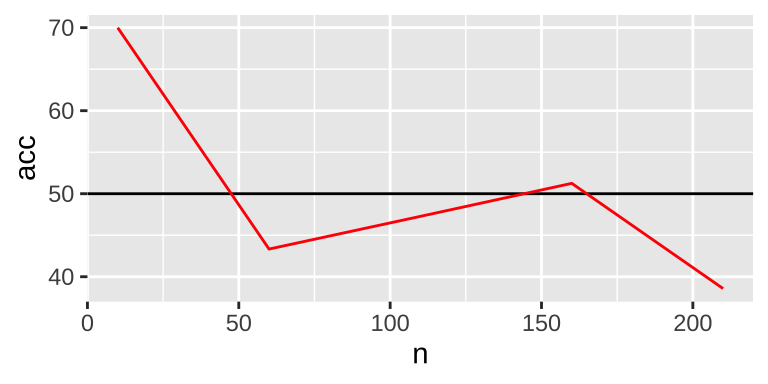
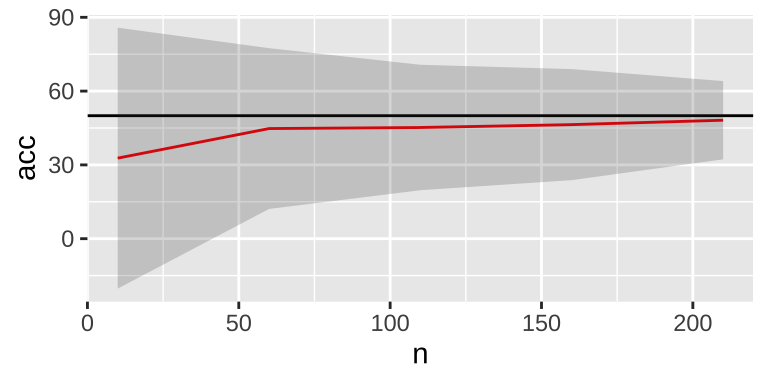
deploy: flashsherlock/rwebsite@00c99f10f3c4987765bbb902573fd79e4ee9eac1

diff --git a/2021/09/27/below-chance-accuracy-in-mvpa/index.html b/2021/09/27/below-chance-accuracy-in-mvpa/index.html
@@ -3,11 +3,12 @@
 library(&quot;dplyr&quot;)
 library(&quot;e1071&quot;)
 # --------training function ---------
-f_train &lt;- function(n, nv = 2,
-                    r=F, c=n) {
+f_train &lt;- function(n, s = 1,
+                    r = F, c = n) {
   # nv: number of features
+  nv &lt;- 2
   # n: number of observations
-  set.seed(1)
+  set.seed(s)
   # generate random data
   rNum &lt;- rnorm(nv * n)
   rNum &lt;- matrix(rNum, n, nv)
@@ -38,13 +39,13 @@ p &lt;- expand.grid(iTest = 1:200,
                  n = seq(10, 210, 50))
 data_test &lt;- p %&gt;%
   group_by(iTest, n) %&gt;%
-  do(data.frame(acc = f_train(.$n)))</code></pre><p><img src=/post/2021-09-27-below-chance-accuracy-in-mvpa_files/figure-html/plot_data-1.png width=384 style=display:block;margin:auto></p><p>As the sample size increases, variability decreases, and the mean accuracy tends to be 50%. However, there is a persistent small down bias on average, which can be eliminated using sampling with replacement.</p><pre class=r><code># with replacement, leave one out
+  do(data.frame(acc = f_train(.$n,.$iTest)))</code></pre><p><img src=/post/2021-09-27-below-chance-accuracy-in-mvpa_files/figure-html/plot_data-1.png width=384 style=display:block;margin:auto></p><p>As the sample size increases, variability decreases, and the mean accuracy tends to be 50%. However, there is a persistent small down bias on average, which can be eliminated using sampling with replacement.</p><pre class=r><code># with replacement, leave one out
 data_test &lt;- p %&gt;%
   group_by(iTest, n) %&gt;%
-  do(data.frame(acc = f_train(.$n,
+  do(data.frame(acc = f_train(.$n,.$iTest,
                               r = T)))</code></pre><p><img src=/post/2021-09-27-below-chance-accuracy-in-mvpa_files/figure-html/unnamed-chunk-5-1.png width=384 style=display:block;margin:auto></p><p>In addition, change to 10-fold cross validation may also decrease the variability.</p><pre class=r><code># with replacement, 10-fold cross validation
 data_test &lt;- p %&gt;%
   group_by(iTest, n) %&gt;%
-  do(data.frame(acc = f_train(.$n,
+  do(data.frame(acc = f_train(.$n,.$iTest,
                               r = F, c=10)))</code></pre><p><img src=/post/2021-09-27-below-chance-accuracy-in-mvpa_files/figure-html/unnamed-chunk-7-1.png width=384 style=display:block;margin:auto></p><p>Some references:</p><ol style=list-style-type:decimal><li><a href=https://doi.org/10.1016/j.neuroimage.2017.12.083>The same analysis approach: Practical protection against the pitfalls of novel neuroimaging analysis methods</a></li><li><a href=https://doi.org/10.1016/j.neuroimage.2018.09.074>How to control for confounds in decoding analyses of neuroimaging data</a></li><li><a href=https://doi.org/10.1002/hbm.23140>Classification Based Hypothesis Testing in Neuroscience: Below-Chance Level Classification Rates and Overlooked Statistical Properties of Linear Parametric Classifiers</a></li><li><a href=https://doi.org/10.1371/journal.pcbi.1006486>Multivariate classification of neuroimaging data with nested subclasses: Biased accuracy and implications for hypothesis testing</a></li><li><a href=http://dx.doi.org/10.1016/j.neuroimage.2017.08.005>Deconstructing multivariate decoding for the study of brain function</a></li></ol></div></article><section id=comments><div id=disqus_thread></div><script>var disqus_config=function(){};(function(){var inIFrame=function(){var iframe=true;try{iframe=window.self!==window.top;}catch(e){}
 return iframe;};if(inIFrame())return;var d=document,s=d.createElement('script');s.src='//gufei.disqus.com/embed.js';s.async=true;s.setAttribute('data-timestamp',+new Date());(d.head||d.body).appendChild(s);})();</script><noscript>Please enable JavaScript to view the <a href=https://disqus.com/?ref_noscript>comments powered by Disqus.</a></noscript></section></main><footer class=footer><ul class=footer-links><li><a href=/index.xml type=application/rss+xml target=_blank>RSS feed</a></li><li><a href=mailto:guf@psych.ac.cn>Email: guf@psych.ac.cn</a></li><li><a href=https://gohugo.io/ class=footer-links-kudos>Made with <img src=/images/hugo-logo.png alt="Img link to Hugo website" width=22 height=22></a></li></ul></footer></div><script src=//cdnjs.cloudflare.com/ajax/libs/highlight.js/10.5.0/highlight.min.js></script><script src=//cdnjs.cloudflare.com/ajax/libs/highlightjs-line-numbers.js/2.8.0/highlightjs-line-numbers.min.js></script><script src=//cdnjs.cloudflare.com/ajax/libs/highlight.js/10.5.0/languages/r.min.js></script><script src=//cdnjs.cloudflare.com/ajax/libs/highlight.js/10.5.0/languages/yaml.min.js></script><script src=//cdnjs.cloudflare.com/ajax/libs/highlight.js/10.5.0/languages/matlab.min.js></script><script>hljs.configure({languages:[]});hljs.initHighlightingOnLoad();hljs.initLineNumbersOnLoad();</script><script src=/js/math-code.js></script><script async src="//cdnjs.cloudflare.com/ajax/libs/mathjax/2.7.5/MathJax.js?config=TeX-MML-AM_CHTML"></script><script type=application/javascript>var doNotTrack=false;if(!doNotTrack){(function(i,s,o,g,r,a,m){i['GoogleAnalyticsObject']=r;i[r]=i[r]||function(){(i[r].q=i[r].q||[]).push(arguments)},i[r].l=1*new Date();a=s.createElement(o),m=s.getElementsByTagName(o)[0];a.async=1;a.src=g;m.parentNode.insertBefore(a,m)})(window,document,'script','https://www.google-analytics.com/analytics.js','ga');ga('create','UA-165298048-1','auto');ga('send','pageview');}</script></body></html>
